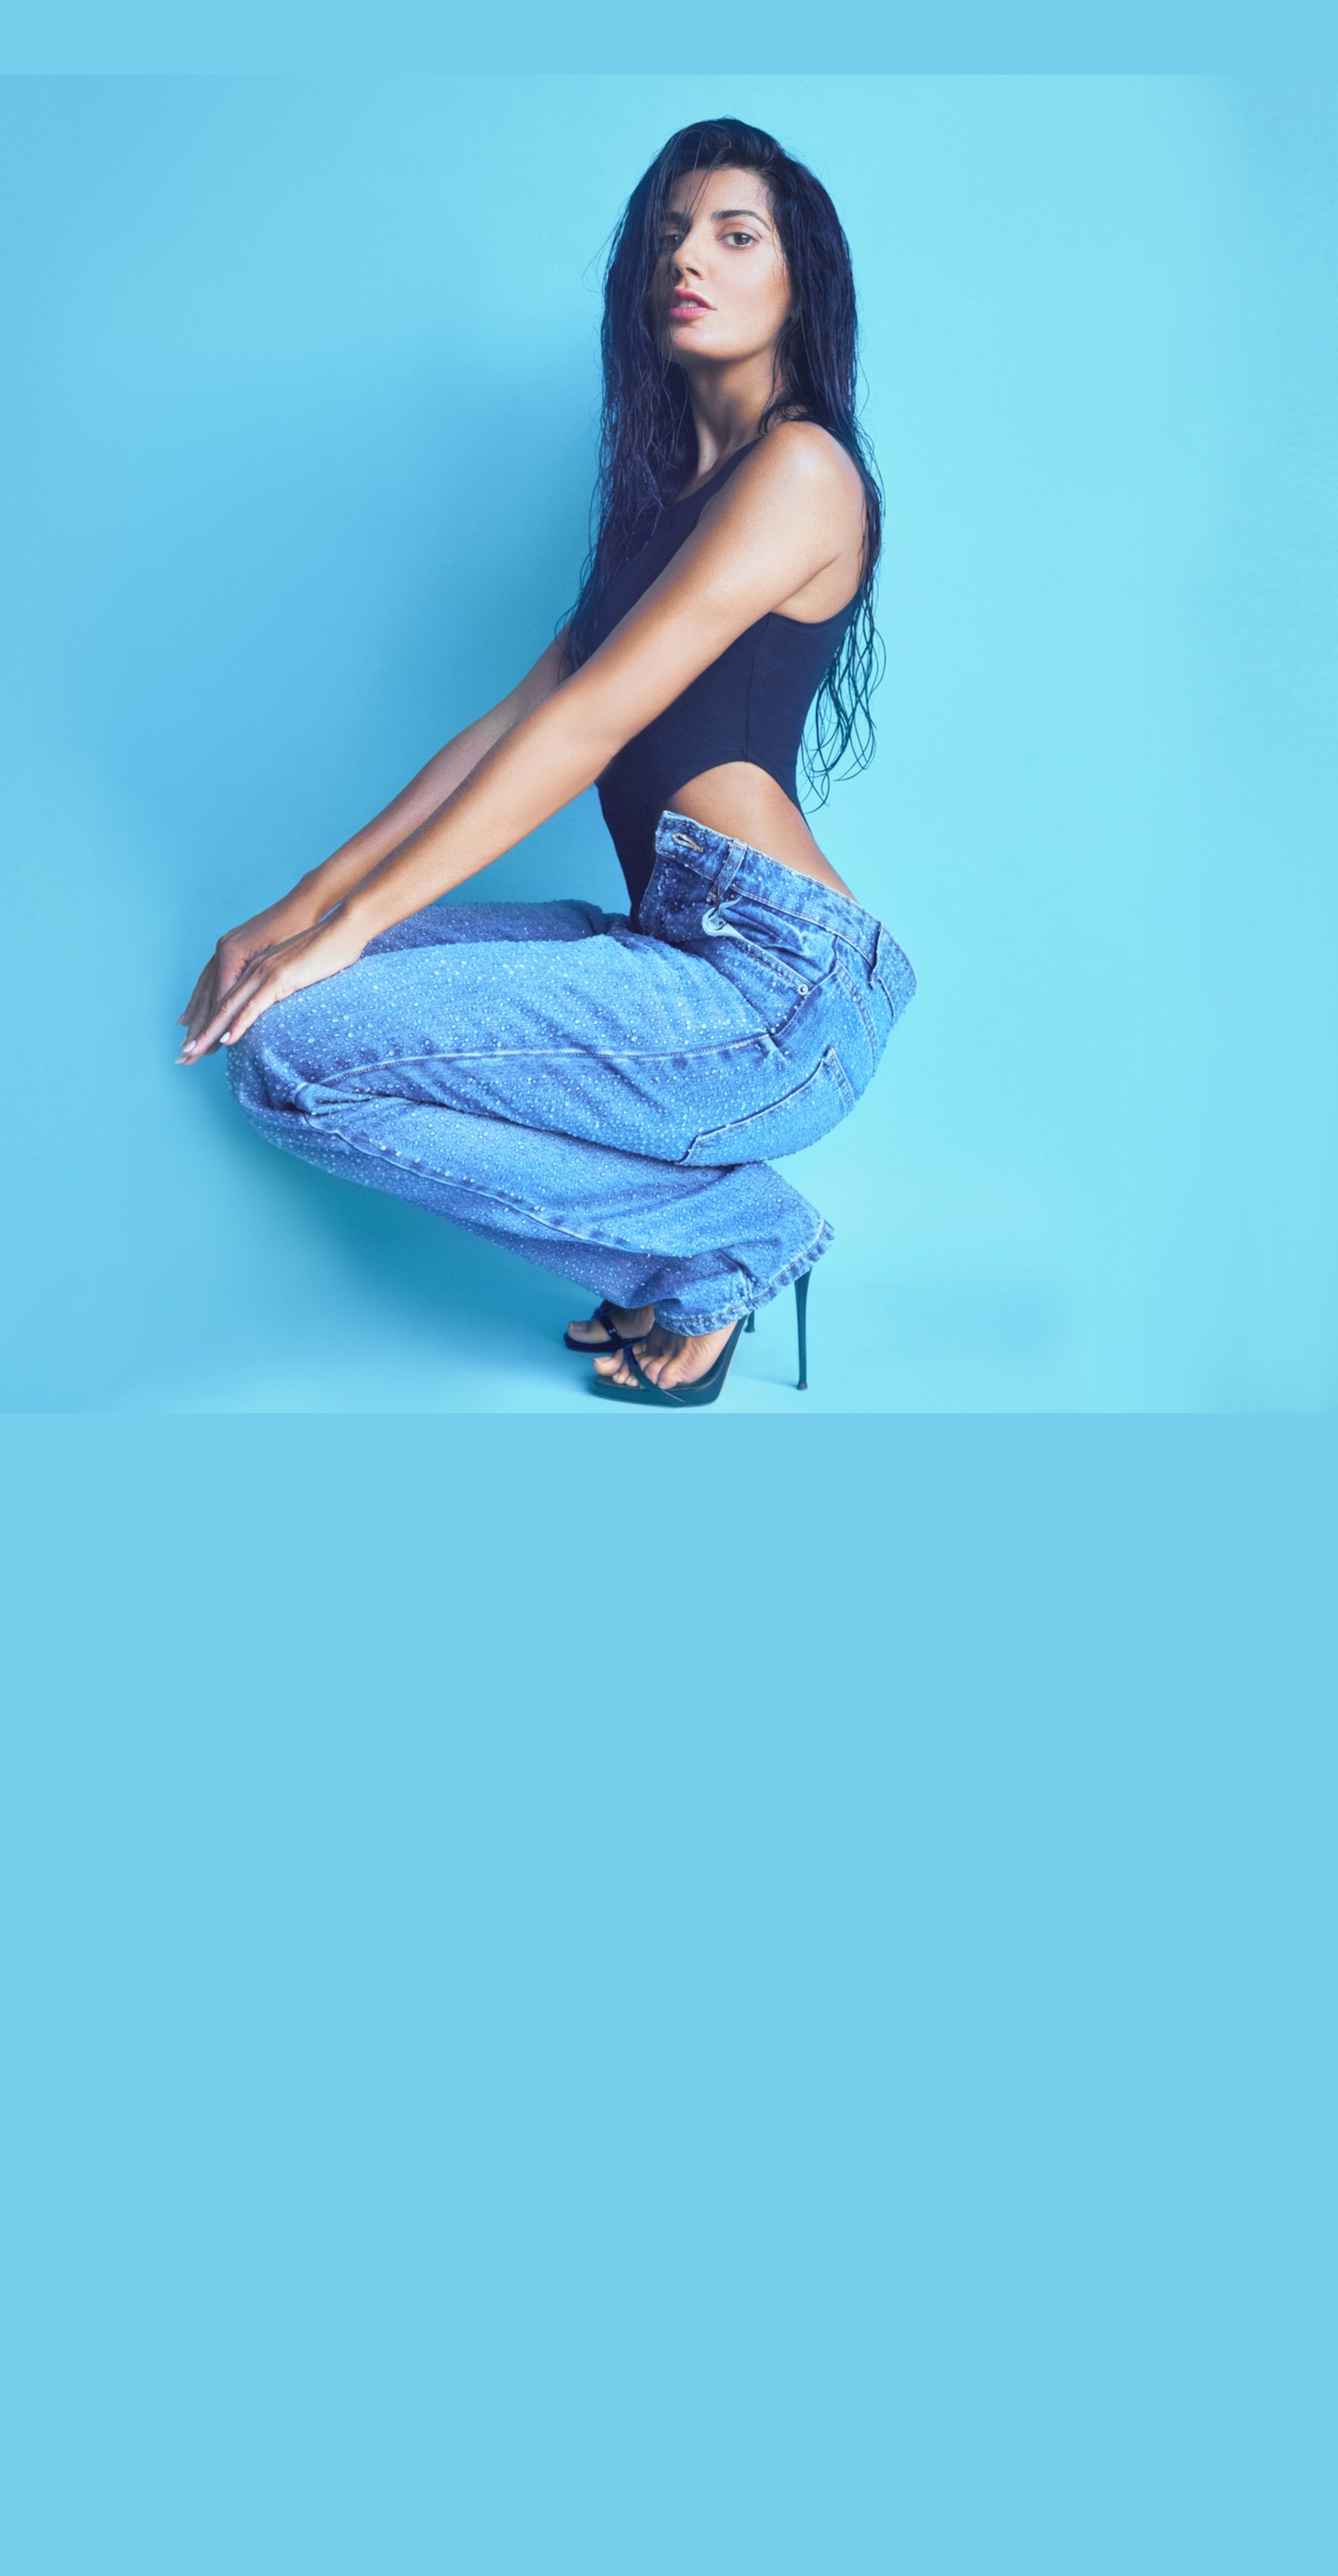
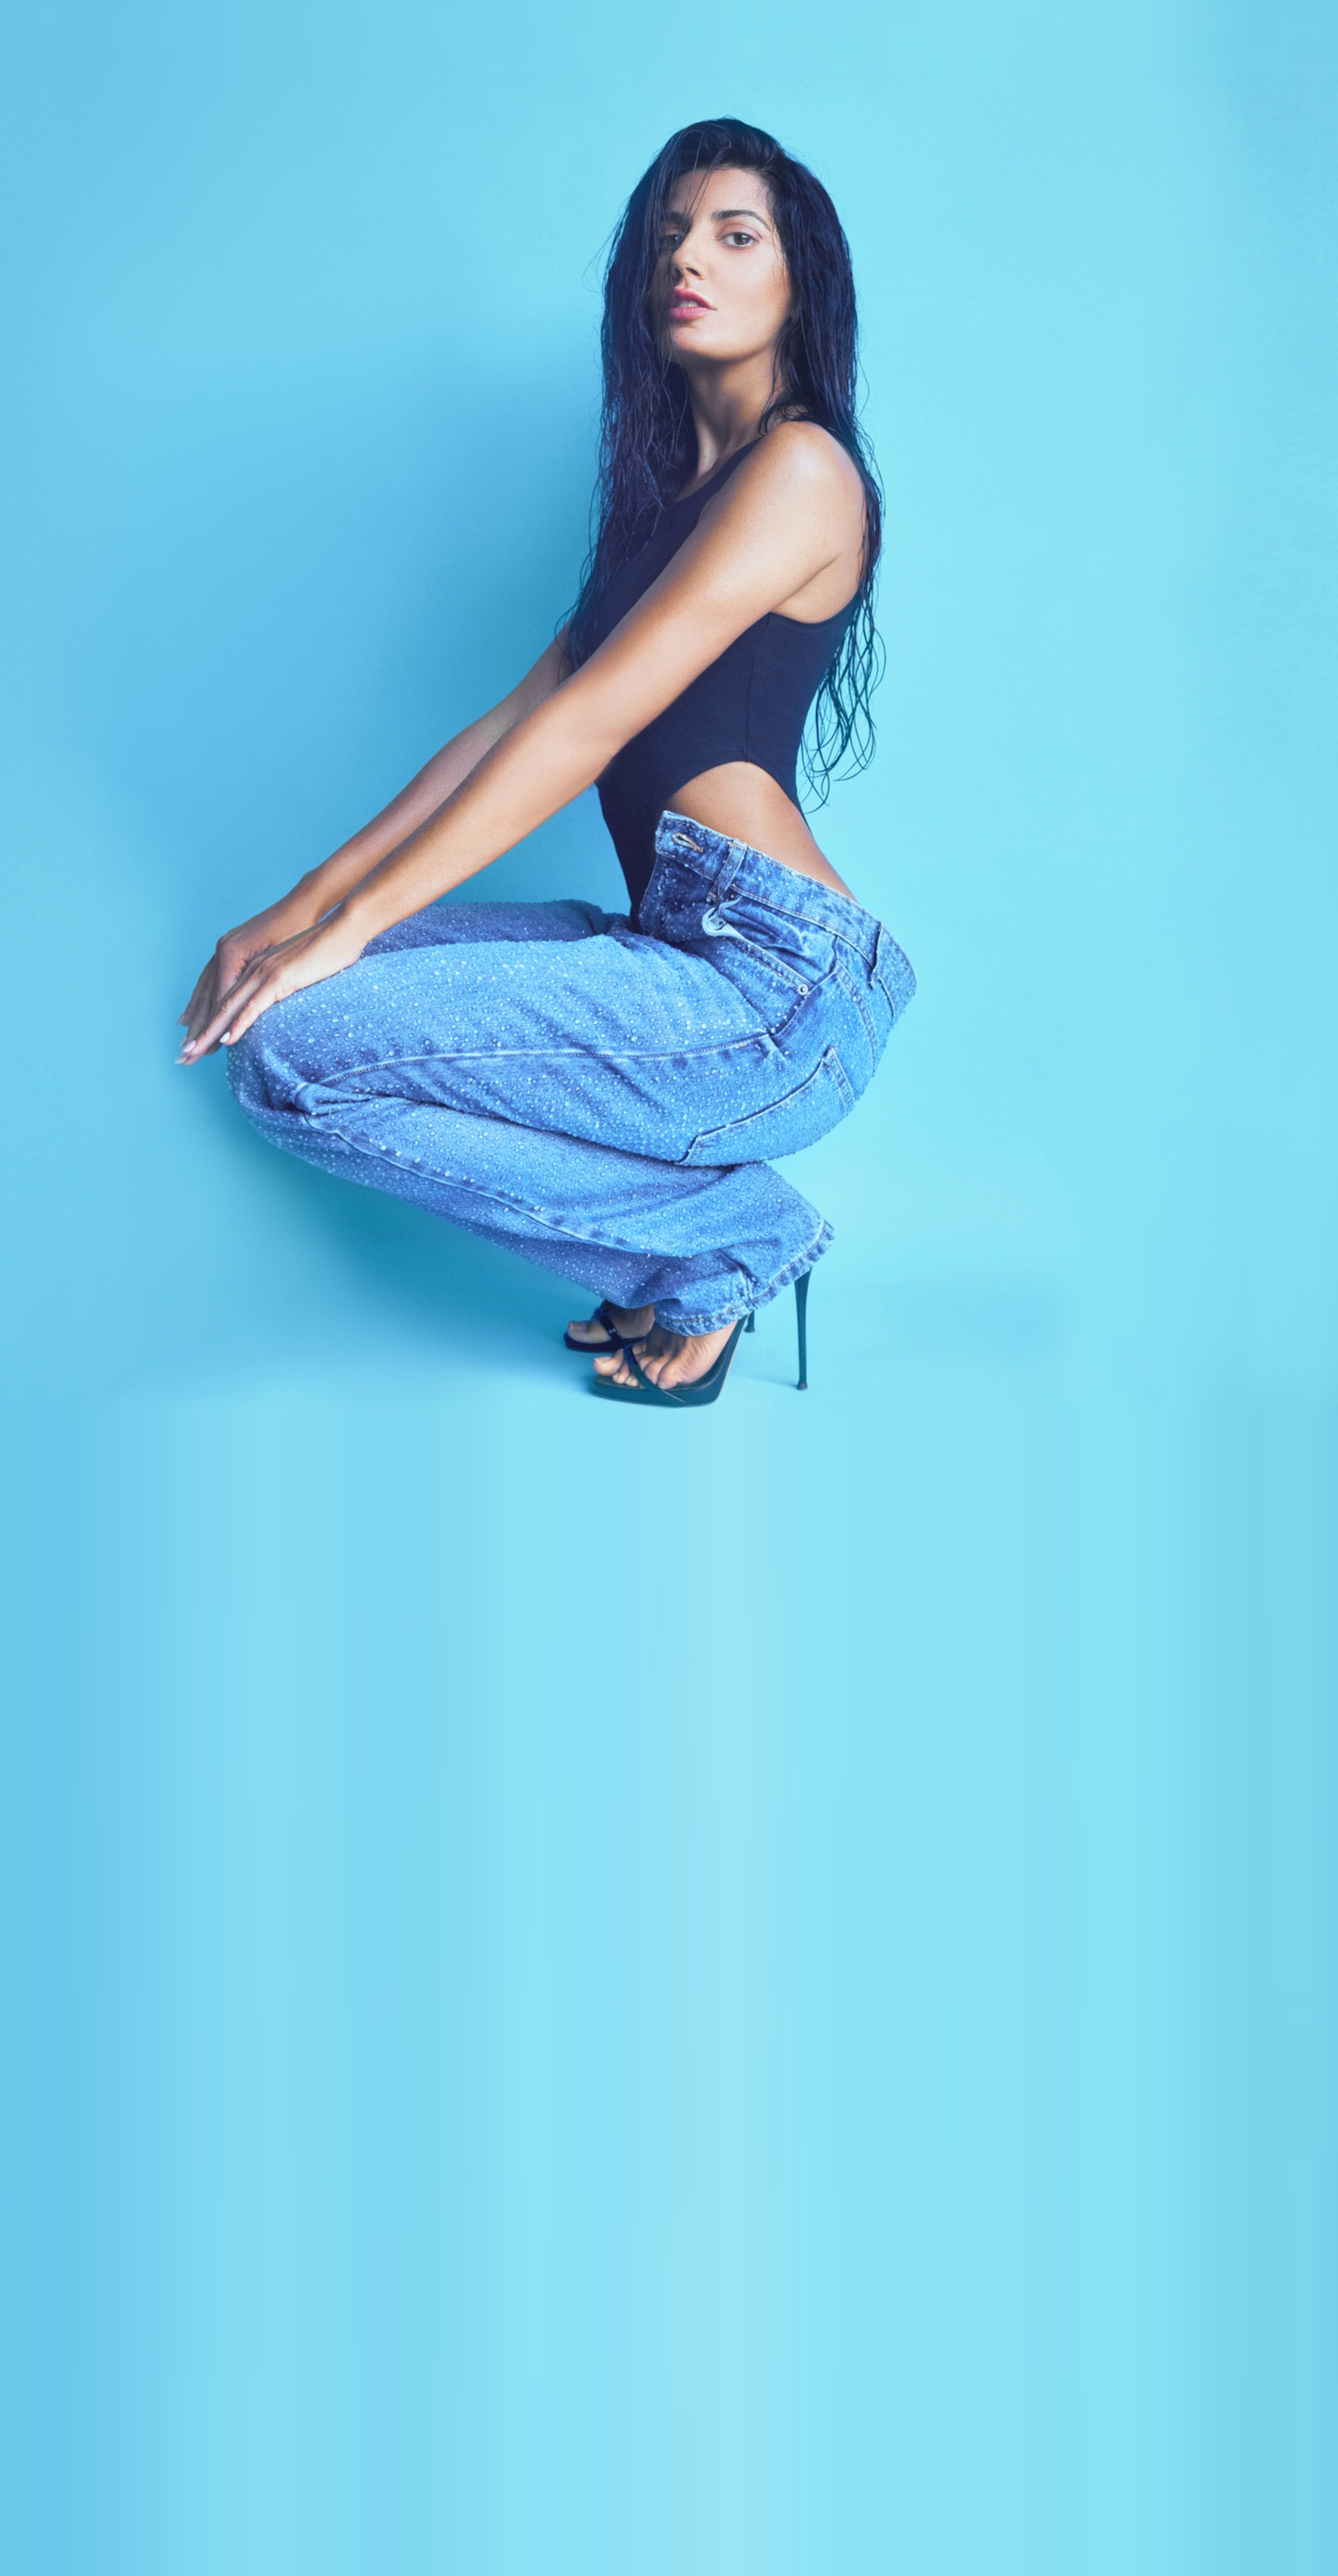
Fix hero photo seams and add glass card for text readability

Changed region(s): [[0.4375, 0.5306, 0.625, 1.0]]

diff --git a/index.html b/index.html
@@ -212,6 +212,20 @@ input,textarea{-webkit-user-select:text;-moz-user-select:text;-ms-user-select:te
     max-width:var(--maxw);
     margin:0 auto;
   }
+  .hero-card{
+    display:inline-block;
+    max-width:600px;
+    background:rgba(8,5,11,.52);
+    backdrop-filter:blur(18px) saturate(140%);
+    -webkit-backdrop-filter:blur(18px) saturate(140%);
+    border:1px solid rgba(255,255,255,.14);
+    border-radius:22px;
+    padding:36px 38px 38px;
+    box-shadow:0 30px 70px -24px rgba(0,0,0,.55);
+  }
+  @media (max-width:640px){
+    .hero-card{padding:26px 22px 28px;border-radius:18px;max-width:100%}
+  }
   .eyebrow{
     display:inline-block;
     font-size:12px;font-weight:700;letter-spacing:.18em;
@@ -726,17 +740,19 @@ input,textarea{-webkit-user-select:text;-moz-user-select:text;-ms-user-select:te
 
 <header class="hero">
   <div class="hero-inner">
-    <span class="eyebrow"><span class="dot"></span>New single — "Is It Love" out now</span>
-    <h1 class="title">VALENTINA<br>BLACK</h1>
-    <p class="tagline">Stream the latest release everywhere and follow along for new music and shows.</p>
-    <div class="cta-row">
-      <a class="btn btn-primary" href="#listen">
-        <svg viewBox="0 0 24 24" fill="currentColor" aria-hidden="true"><path d="M8 5v14l11-7z"/></svg>
-        Listen Now
-      </a>
-      <a class="btn btn-ghost" href="https://bnds.us/vsk3fb" target="_blank" rel="noopener">
-        Tour Dates
-      </a>
+    <div class="hero-card">
+      <span class="eyebrow"><span class="dot"></span>New single — "Is It Love" out now</span>
+      <h1 class="title">VALENTINA<br>BLACK</h1>
+      <p class="tagline">Stream the latest release everywhere and follow along for new music and shows.</p>
+      <div class="cta-row">
+        <a class="btn btn-primary" href="#listen">
+          <svg viewBox="0 0 24 24" fill="currentColor" aria-hidden="true"><path d="M8 5v14l11-7z"/></svg>
+          Listen Now
+        </a>
+        <a class="btn btn-ghost" href="https://bnds.us/vsk3fb" target="_blank" rel="noopener">
+          Tour Dates
+        </a>
+      </div>
     </div>
   </div>
 </header>
